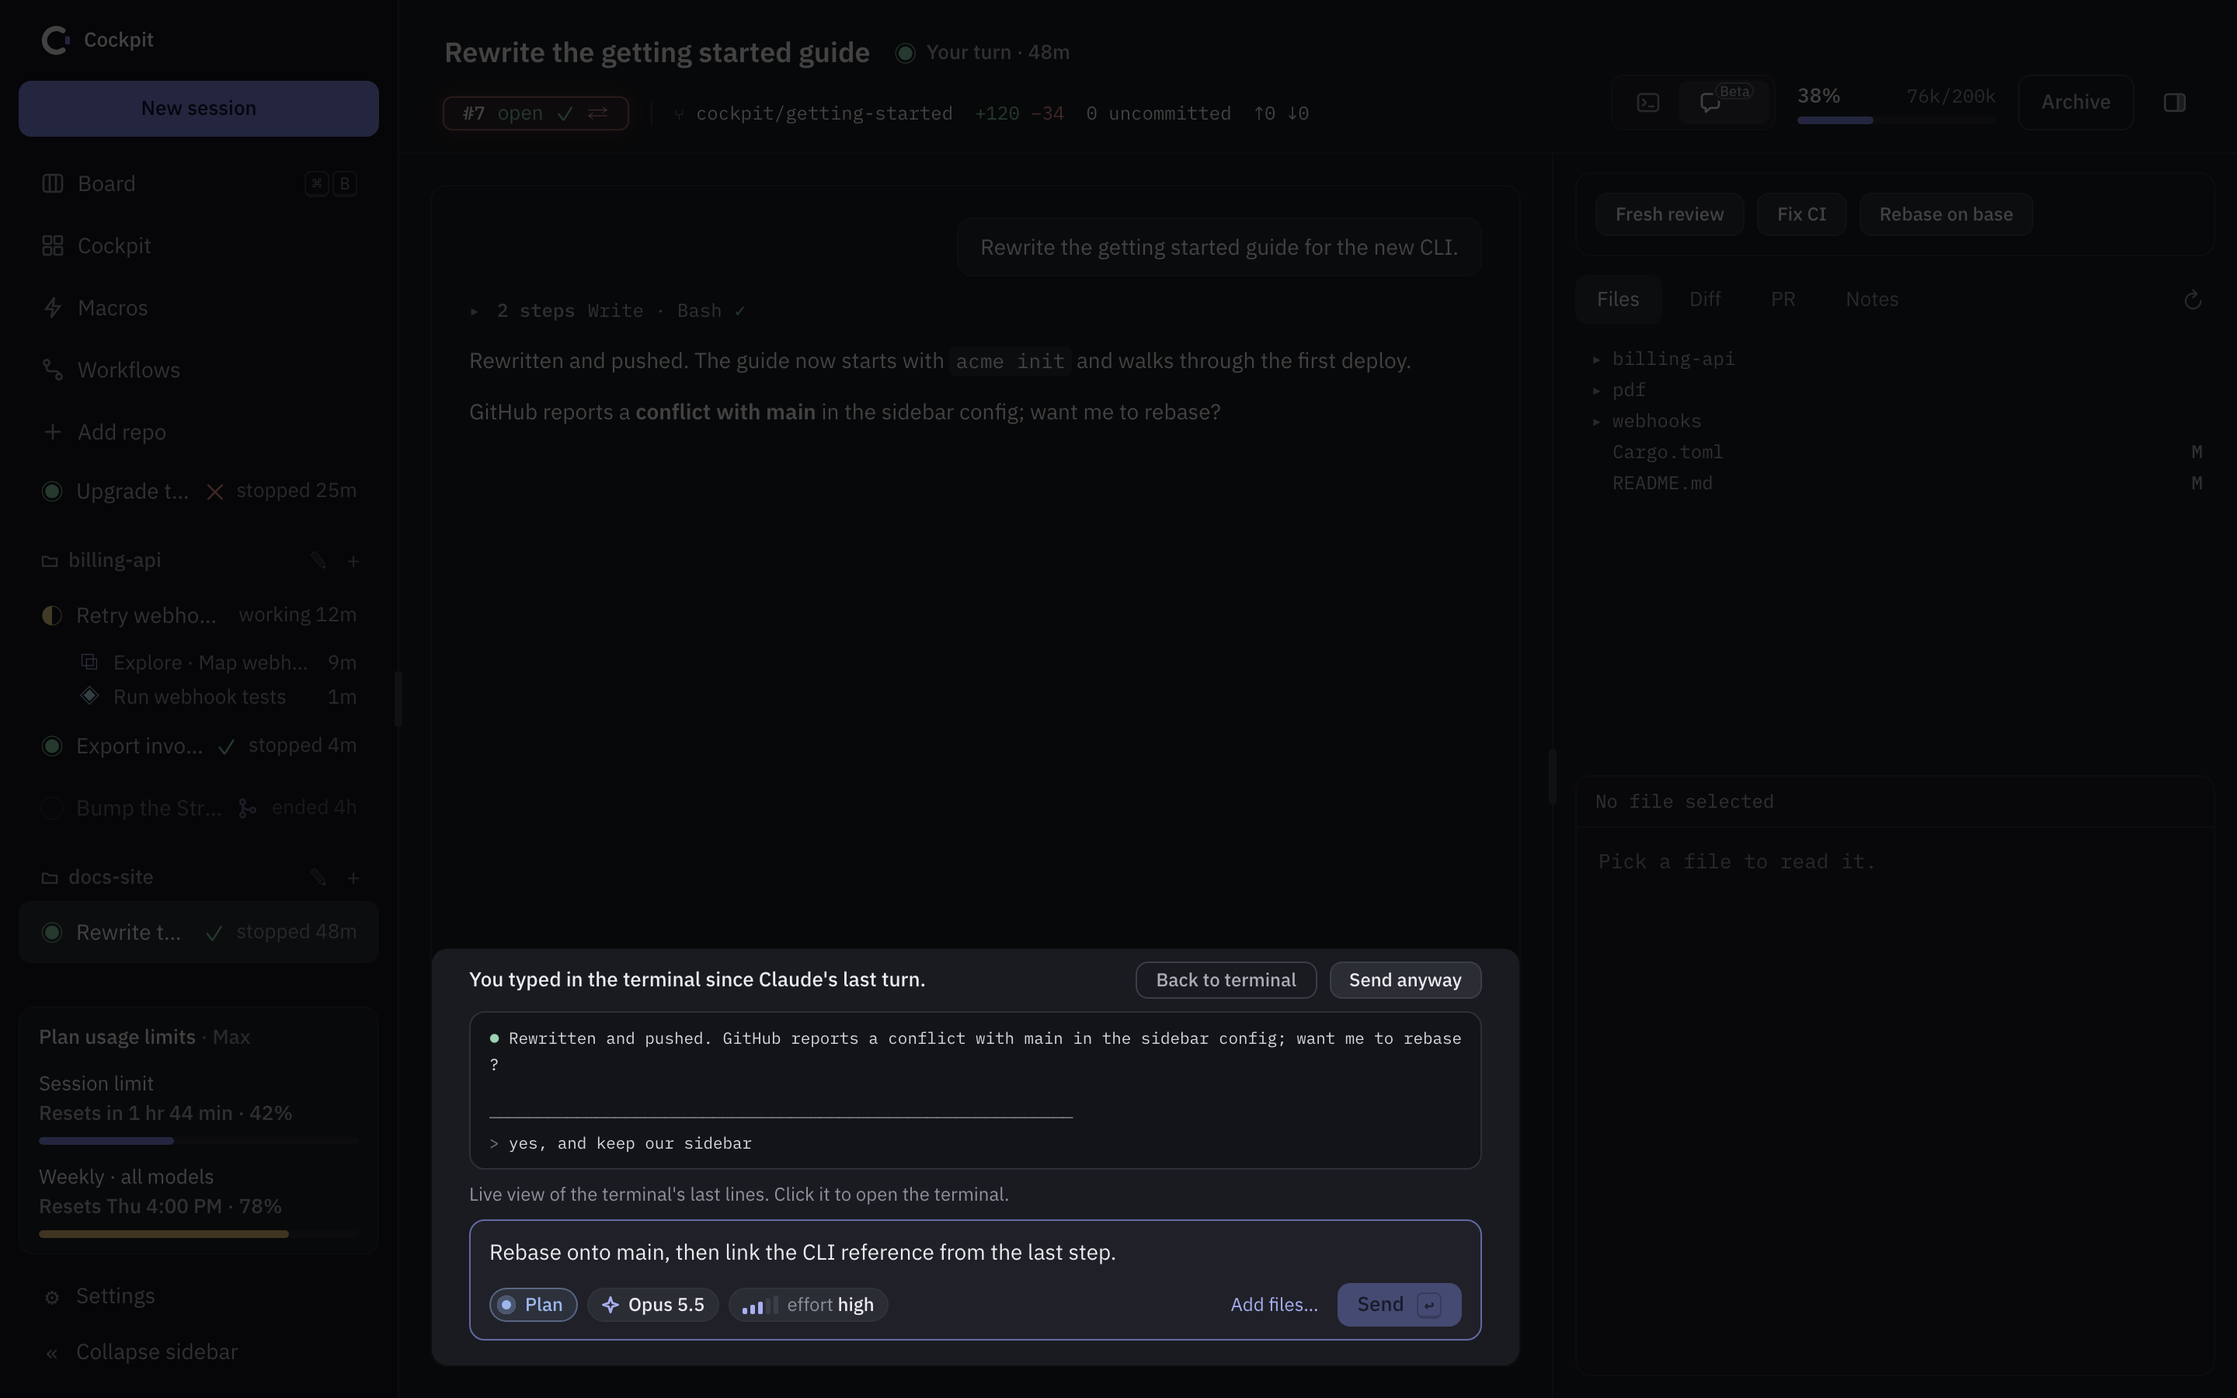
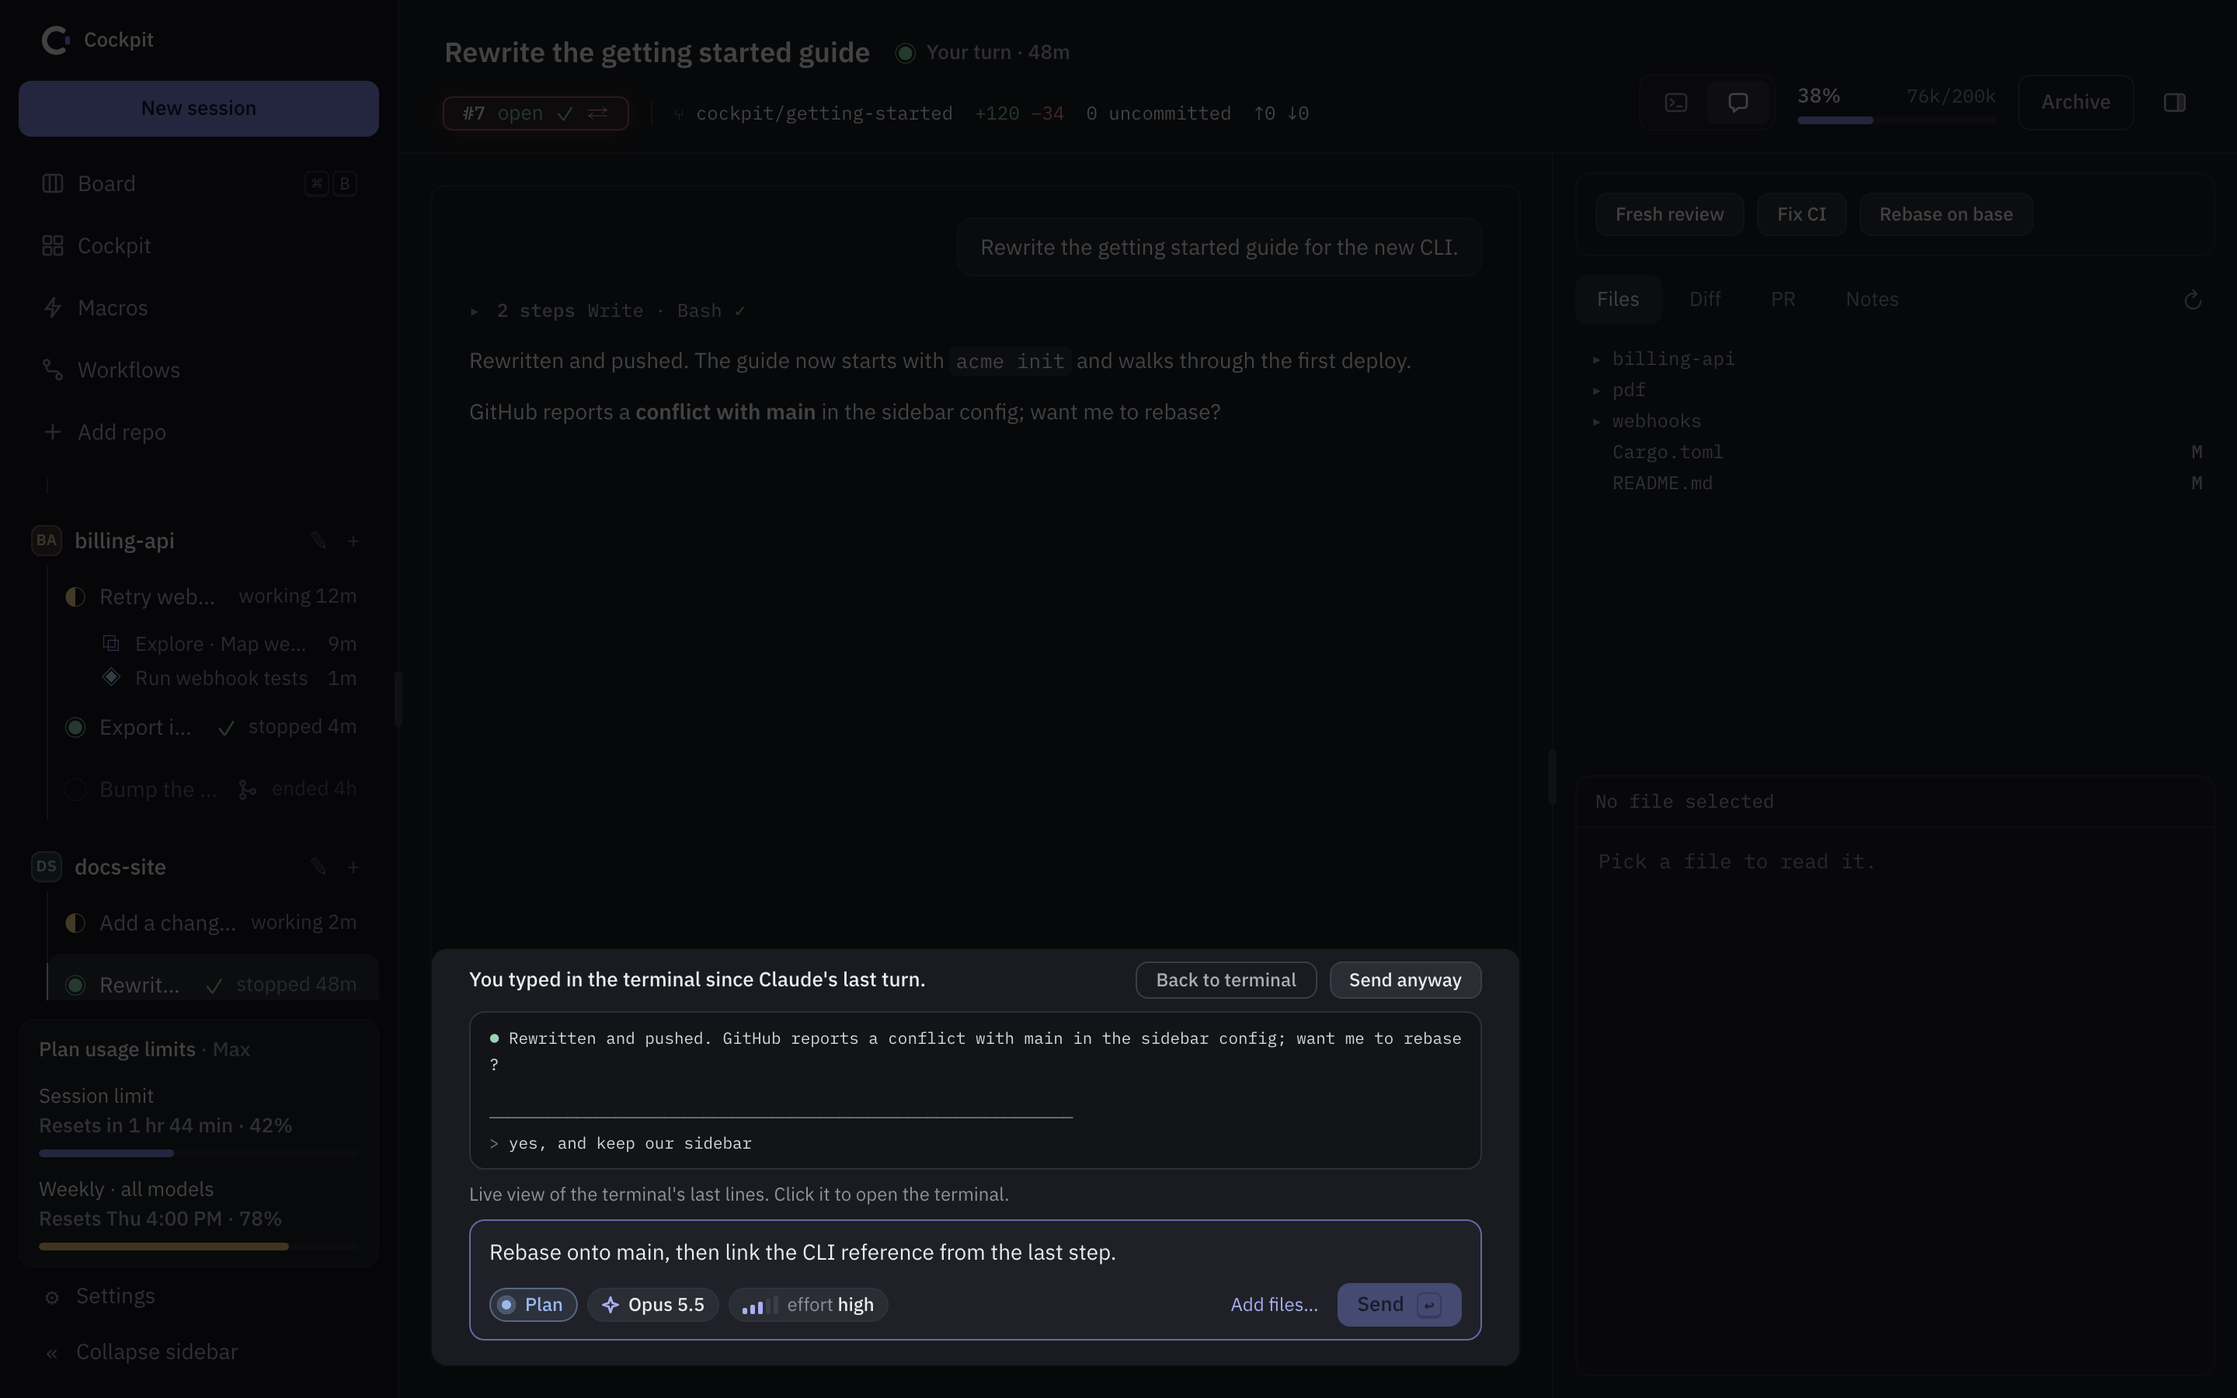
docs: README for v0.16.0 (#28)

Changed region(s): [[0.0, 0.6222, 0.1562, 0.9022], [0.0312, 0.3733, 0.1562, 0.5289], [0.75, 0.0622, 0.7812, 0.0933]]

diff --git a/README.md b/README.md
@@ -78,7 +78,10 @@ Cards show the branch, time in state, lines changed and the PR badge. The badge 
 - Rows are in alphabetical order. To set your own order, set **Repo order** to **Manual** in Settings, then drag a repo row.
 - **+** starts a session in that repo.
 - **…** → **Default branch…** changes the repo's default branch. **…** → **Remove repo** removes a repo with no sessions.
+- **…** → **Color** changes the repo's color, with ten to choose from. The tile, the row's edge and the sidebar change at once.
 - Search by title, PR link or PR number.
+
+![Choosing a repo's color](docs/screenshots/repo-color.png)
 
 ### Starting a session
 
@@ -98,9 +101,9 @@ Cards show the branch, time in state, lines changed and the PR badge. The badge 
 | Area | What it shows |
 |---|---|
 | **Terminal** | The real `claude` process. |
-| **Terminal / Chat** | The two icons switch the center between the terminal and the chat of the same process (see below). Each session remembers its choice. |
+| **Terminal / Chat** | With **Chat UI** on in Settings, the two icons switch the center between the terminal and the chat of the same process (see below). Each session remembers its choice. |
 | **Header** | PR badge, branch, lines changed, uncommitted files, ahead/behind, context use. Click the title to rename. |
-| **Sidebar** | Every session and what it is running. **Collapse sidebar** shrinks it to a rail. |
+| **Sidebar** | Every session and what it is running, grouped by repo. Each repo has a tile with its initials, in one of ten colors; the board shows the same tile. A repo you add gets a color its neighbours don't have, and keeps it until you pick another with **…** → **Color** on the board. A repo's name stays at the top while you scroll through its sessions. **Collapse sidebar** shrinks it to a rail. |
 | **Side pane** | Files, Diff, PR, Notes, Workflow, and Artifacts (claude.ai pages the session linked, when there are any). The button at the top right hides it. |
 
 Repos have notes too: click the pencil next to the repo name in the sidebar.
@@ -109,10 +112,10 @@ Repos have notes too: click the pencil next to the repo name in the sidebar.
 
 ![Chat view](docs/screenshots/chat.png)
 
-Click the chat icon in the session header (its tooltip reads **Chat (Beta)**) to read the session as a chat instead of a terminal. It is the same `claude` process: switching back and forth never restarts or touches it.
+Turn on **Chat UI** in Settings. Then click the chat icon in the session header to read the session as a chat instead of a terminal. It is the same `claude` process: switching back and forth never restarts or touches it.
 
 > [!NOTE]
-> Chat is in beta, so every chat icon carries a **Beta** pill, and the toggle in Settings a **Beta** tag. The terminal is still the full view: anything the chat can't show, the terminal does.
+> Chat UI is in beta and may be unstable, so its switch in Settings carries a **Beta** tag. While it is off, every session shows its terminal and there are no chat icons. Turn it back on and each session returns to the view it was in. The terminal is still the full view: anything the chat can't show, the terminal does.
 
 - Your prompts sit on the right, with their images. Claude's replies are formatted text, with their images. An image file shows only if it is inside the session's worktree. An image on GitHub shows too; one from any other site stays a link. An image that can't load shows as its text, a link when it has a web address.
 - Each tool call is one line with its command or file and a ✓ or ✕. Click it to see its input and result. Thinking is a collapsed **Thinking** line.
@@ -121,14 +124,14 @@ Click the chat icon in the session header (its tooltip reads **Chat (Beta)**) to
 - Every code block has a copy button in its top-right corner: Claude's code, a tool call's input and result, and command output. It shows while the pointer is over the block or the button has keyboard focus. Click it to copy the block's text. It reads **Copied** for 2 seconds, or **Copy failed** if the clipboard refuses.
 - A subagent's work sits under the **Agent** line that started it. Click it to open the subagent's thread.
 - Subagents, background shells and monitors that are still running are listed above the composer, each with how long it has run. The list stays there while you scroll, and each line goes away when its work ends.
-- `!` commands and slash commands such as `/model` show with their output. `/compact` and interruptions are divider lines.
+- `!` commands and slash commands such as `/model` show with their output. A skill or custom command you send, such as `/superpowers:brainstorming …`, shows as your prompt, as you typed it. `/compact` and interruptions are divider lines.
 - New replies appear within about 2 seconds, a block at a time. The chat follows them while you are at the bottom, and stays put while you scroll up to read.
 - Text that arrives while the chat is open moves in a little: a reply fades up line by line and your prompt fades in. Set **Chat text** to **Type** to have replies type themselves out instead, or to **None** for no motion. What the chat already held when you opened it shows at once, and nothing moves while macOS **Reduce motion** is on.
 - After `/clear` the chat starts empty. After a resume it shows the resumed conversation.
 - In a folder Claude Code hasn't opened before, it first asks in the terminal whether to trust the folder. If a session stays **Starting** for a few seconds, the chat says Claude Code may be waiting for an answer, with **Open in terminal**.
 - When Claude needs an answer, it shows as a card above the composer (see **Answer cards**). Anything the chat can't show reads **Shown in the terminal**, with **Open in terminal**.
 
-To open every new session in Chat, set **New sessions open in** to **Chat** in Settings.
+To open every new session in Chat, set **New sessions open in** to **Chat** in Settings. While **Chat UI** is off, new sessions open in the terminal.
 
 ### Answer cards
 
@@ -162,7 +165,7 @@ The box under the chat sends your next prompt to Claude, as if you had typed it 
 - **Send** sends at once when Claude is ready for a prompt: on your turn, and also when Claude has finished but its background shells or subagents still run (a CI watcher, say), unless a macro is waiting on them to type its next command.
 - While Claude works or waits on a question, <kbd>↩</kbd> queues your message instead, as the line above the box says (its ◐ turns while Claude works). The button reads **Queue**, and the message shows above the box as **Queued**. When Claude's turn ends, it goes in by itself. <kbd>↩</kbd> again adds the new text to it as a new paragraph, and the button reads **Add to queue**. Files you add go with it. One message is queued per session, and it lasts until Cockpit quits.
 - While the session shows **Starting…** or **Session ended**, a line says why you can't send. You can keep typing; the text waits for you.
-- On the queued message, **Edit** puts it back in the box, **Remove** drops it, and **Send now** types it into Claude Code at once: Claude takes it at its next step, in the same turn, and it shows in the chat from there. **Send now** is unavailable while Claude waits on a question, while a macro runs, while the session starts or while text you typed in the terminal waits in Claude's input. Hover it to see why.
+- On the queued message, **Edit** puts it back in the box, **Remove** drops it, and **Send now** types it into Claude Code and, once Claude Code shows it queued, presses Claude Code's own send now (its default key, Ctrl+X Ctrl+S): Claude takes it right away, cutting short what it was doing, and it shows in the chat from there. If you bound send now to another key in Claude Code, the message stays in Claude Code's queue and goes in when the turn ends. **Send now** is unavailable while Claude waits on a question, while a macro runs, while the session starts or while text you typed in the terminal waits in Claude's input. Hover it to see why.
 - A queued message is held, not sent, when you interrupted Claude (<kbd>esc</kbd>), when you typed text in the terminal during the turn (**Send anyway** sends it), when the session ended (resume it first) or when sending failed. Keys that type nothing, such as <kbd>⇧</kbd> <kbd>⇥</kbd>, don't hold it. The bubble then says why (**Held · you interrupted Claude, so this wasn't sent**, say) and has a **Send** button.
 - While a message is held and Claude is ready, <kbd>↩</kbd> or **Send** under the box adds your new text to it and sends both.
 - Each session keeps its own draft until you send it, even when you switch views or sessions.
@@ -212,7 +215,7 @@ Answer one part of a reply without retyping it.
 
 ![A repo's default branch](docs/screenshots/repo-main.png)
 
-- Click a repo's name in the sidebar to browse its default branch, no session needed.
+- Click a repo's name in the sidebar to browse its default branch, no session needed. In the collapsed rail, click the repo's tile.
 - The default branch is set per repo. **Add repo** preselects the one GitHub reports, else the one `origin/HEAD` points at, else `main` or `master`. Change it with **…** → **Default branch…** on the board.
 - Cockpit reads `origin/<default>`, else the local `<default>`. The header shows it and its commit, e.g. `origin/main @ 8e2f9a1`.
 - It shows what is committed, not the repo folder's uncommitted edits, and leaves submodules out. It never fetches: `origin/<default>` is as fresh as your last `git fetch`. If neither branch exists, the view says so and points to **Default branch…**.
@@ -232,6 +235,7 @@ Answer one part of a reply without retyping it.
 ![PR tab](docs/screenshots/pr.png)
 
 - Description, checks, review, unresolved threads and a GitHub link, read through your `gh` login.
+- Each check shows how long it took. A running check has a spinner and a clock that counts up every second, as on GitHub. A queued check has a dashed ring and counts how long it has waited to start: **Queued 42s**. A status reported by another service (a deploy preview, say) shows no clock, since GitHub doesn't say when it started. While any check is queued or running, the tab reads the PR again every 30 seconds.
 - The header shows where the PR goes, in GitHub's order: `main ← fix/login`, the branch it merges into, then its own branch. The confirm button names it too: **Confirm squash into main**.
 - The description shows its images: pasted screenshots, images from the repo and badges, private repos included. They load through `gh` too. An image that can't load shows as its text, a link when it has a web address.
 - Merge or squash-merge after a confirm. The menu offers only the methods the repo and the rules on the PR's base branch allow. Cockpit remembers your method per repo and base branch.
@@ -282,9 +286,9 @@ A workflow is a list of prompts and macros you step through, e.g. build → revi
 
 Every running session in one grid, as its terminal or its chat. Answer prompts without switching sessions.
 
-- Each tile shows the session's own view. The terminal and chat icons in its header switch it, and the session view follows.
+- Each tile shows the session's own view, or its terminal while **Chat UI** is off. The terminal and chat icons in its header switch it, and the session view follows.
 - A chat tile has what the session's chat has: running work, answer cards and the composer.
-- **All tiles**, above the grid, switches every tile at once. It shows a view only while every tile is on it.
+- **All tiles**, above the grid, switches every tile at once. It shows a view only while every tile is on it. It appears only while **Chat UI** is on.
 - Blocked tiles glow. A pill points to blocked tiles scrolled out of view: click it to jump there, ready to answer.
 - ⤢ opens the session.
 
@@ -307,20 +311,23 @@ The sidebar footer shows your plan's 5-hour and weekly limits: % used and reset 
 
 ![Settings](docs/screenshots/settings.png)
 
-| Setting | Default |
-|---|---|
-| Jump into session on create | Off |
-| Warn about uncommitted changes on archive | On |
-| Resume when opening an Ended session | On |
-| Keep Mac awake while sessions work (plugged in) | Off |
-| Theme | Slate (Ledger is a darker alternative) |
-| Default model | Opus |
-| Repo order | Alphabetical (**Manual** keeps the order you drag repo rows into on the Board) |
-| New sessions open in | Terminal (**Chat** opens new sessions in the chat view) |
-| Chat text | Fade (how new chat text appears: **Fade** line by line, **Type** letter by letter, or **None**) |
-| Beta builds | Off (installed app only, see [Beta builds](#beta-builds)) |
+Click **Settings** to open the Settings page. A change applies as soon as you click it.
 
-The installed app also shows its version and **Check for updates**. The last row, **License**, shows Cockpit's license and the licenses of the open-source software it includes. **Cockpit → About Cockpit** shows the version and the copyright.
+| Section | Setting | Default |
+|---|---|---|
+| Sessions | Jump into session on create | Off |
+| Sessions | Resume when opening an Ended session | On |
+| Sessions | Warn about uncommitted changes on archive | On |
+| Sessions | Default model | Opus |
+| Appearance | Theme | Slate (Ledger is a darker alternative) |
+| Appearance | Repo order | Alphabetical (**Manual** keeps the order you drag repo rows into on the Board) |
+| Chat | Chat UI (**Beta**) | Off (on after an update if you already used the chat: new sessions opened in Chat, or a session was in Chat). Turns on the chat view, see [Chat view](#chat-view) |
+| Chat | New sessions open in | Terminal (**Chat** opens new sessions in the chat view) |
+| Chat | Chat text | Fade (how new chat text appears: **Fade** line by line, **Type** letter by letter, or **None**) |
+| System | Keep Mac awake while sessions work | Off (only while plugged in) |
+| Updates | Beta builds | Off (installed app only, see [Beta builds](#beta-builds)) |
+
+**New sessions open in** and **Chat text** are greyed out while **Chat UI** is off. **Updates** shows only in the installed app, with its version and **Check for updates**. **About** has **License**, which shows Cockpit's license and the licenses of the open-source software it includes. **Cockpit → About Cockpit** shows the version and the copyright.
 
 ---
 
@@ -349,7 +356,7 @@ The installed app also shows its version and **Check for updates**. The last row
 - If sessions are running, Cockpit asks before it restarts, because restarting ends them. Resume them afterwards from the board.
 - If a download or install fails, Cockpit tries again later, less and less often: after 6 hours, then 12, 24 and 48 hours, then every 4 days.
 
-Settings shows the installed version and has **Check for updates** to check right away.
+Settings shows the installed version and has **Check for updates** to check right away. If the check or the download fails, Settings says so. Click **Details** to see why. For a failed check, it names the update feed that failed and how: for example `HTTP 504 Gateway Timeout` when GitHub is having trouble, or a DNS or connection error when you're offline. Cockpit also writes this to its log.
 
 > [!NOTE]
 > If your Mac would ask for an administrator password to replace Cockpit (it sits in a folder you can't write to), Cockpit never installs on its own. The sidebar shows **Update to vX.Y.Z** and Settings shows **Install update** instead. Click either one and enter your password when macOS asks.
